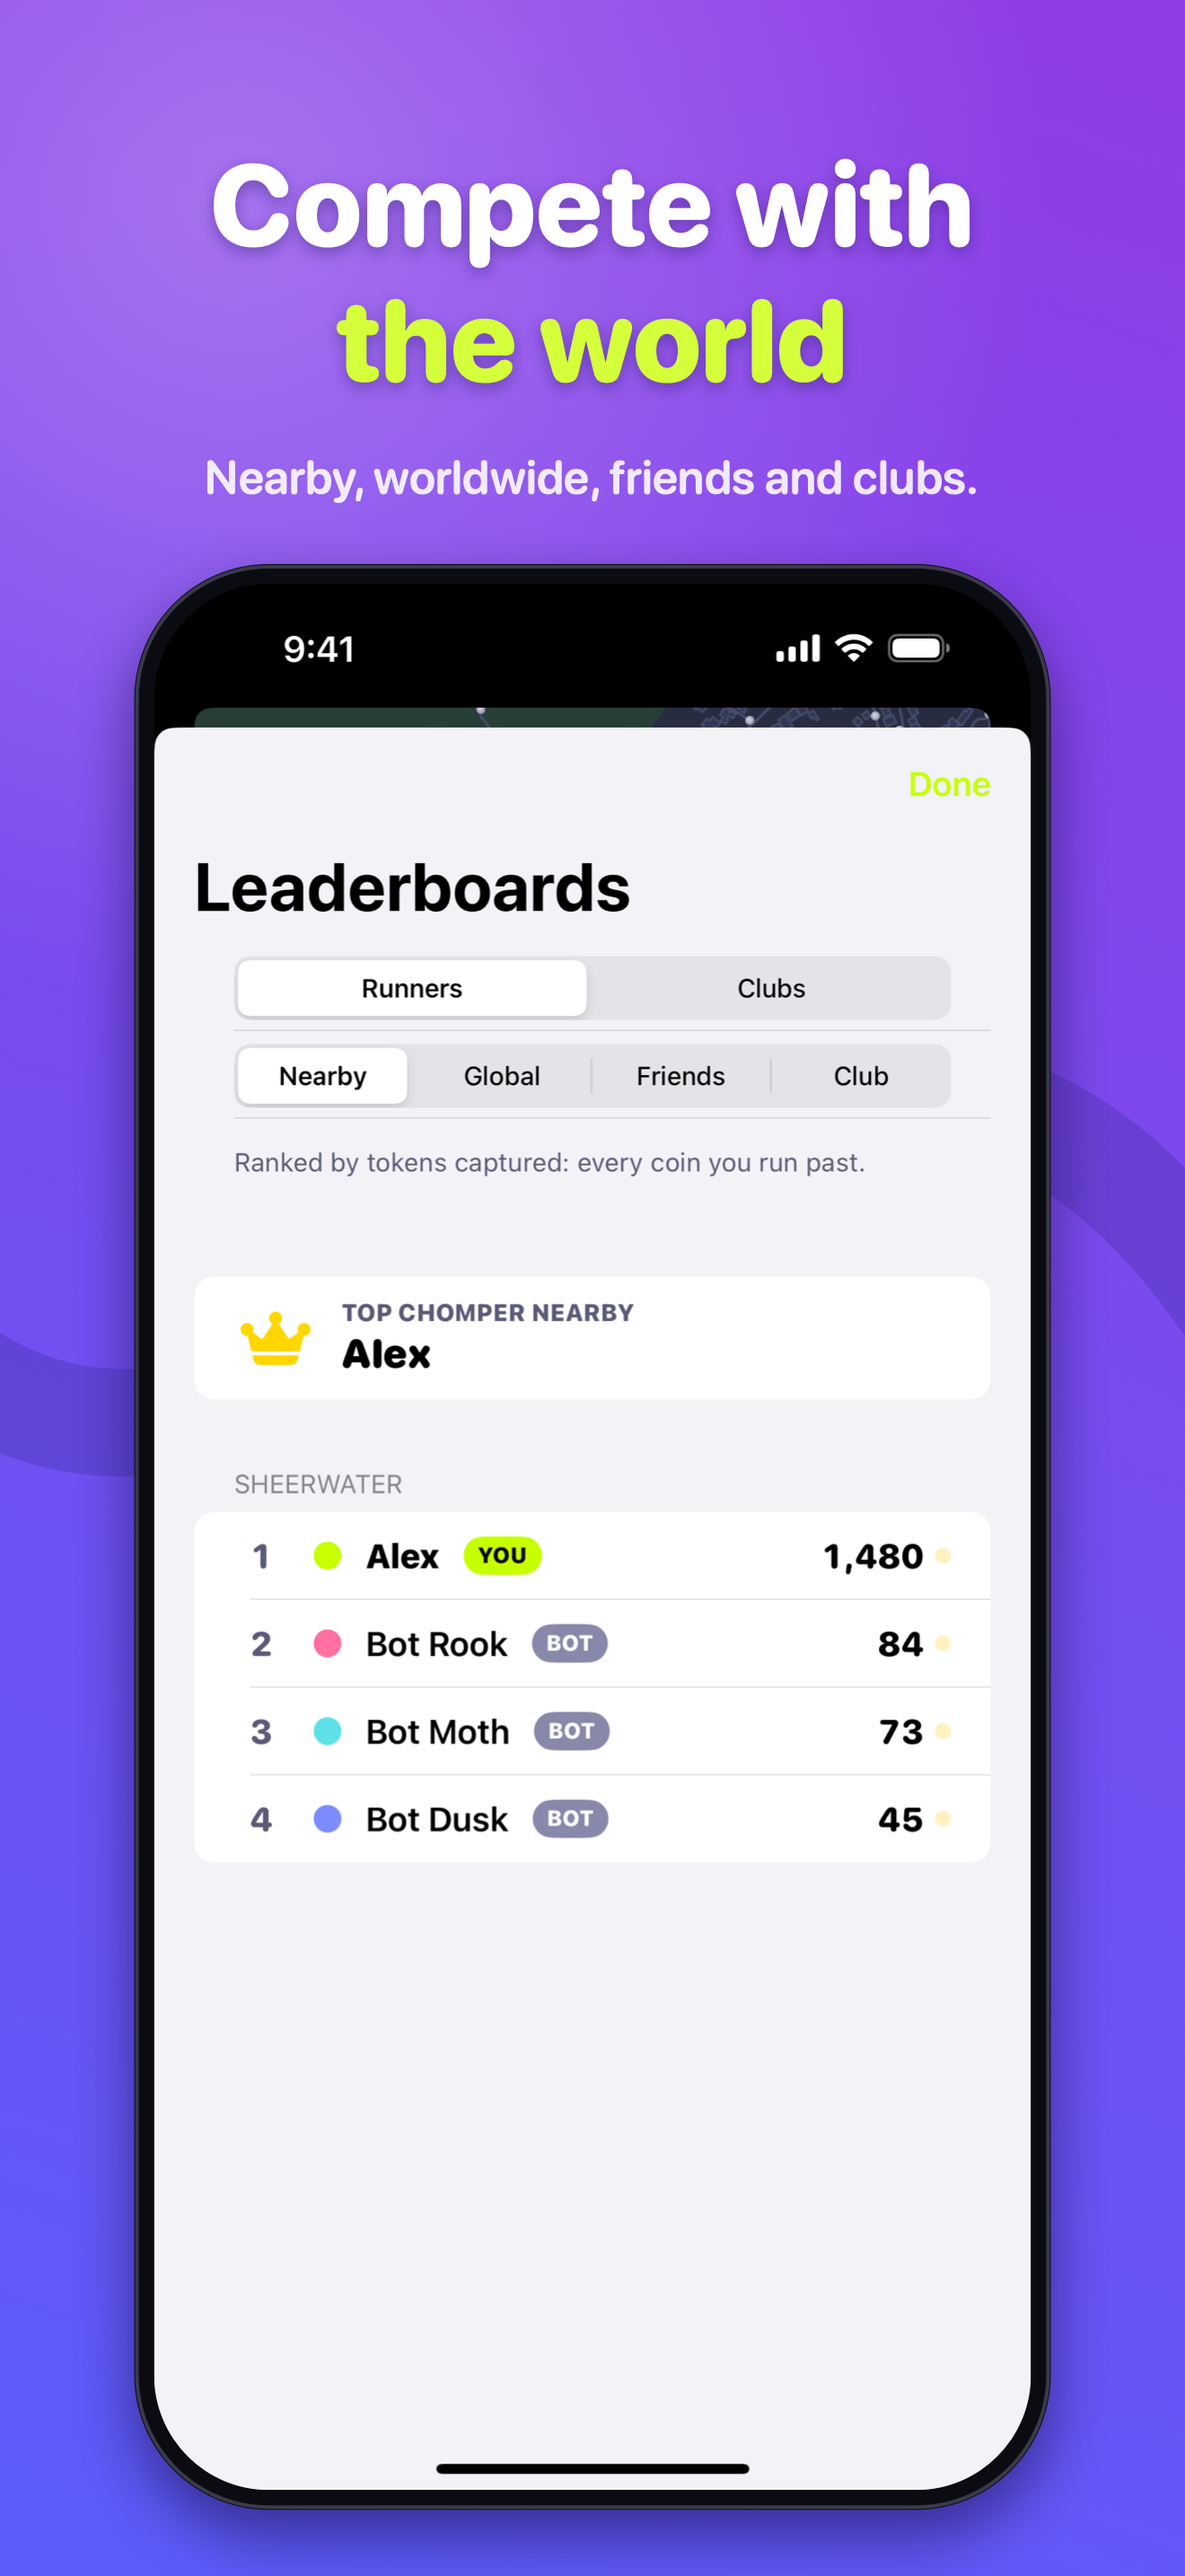
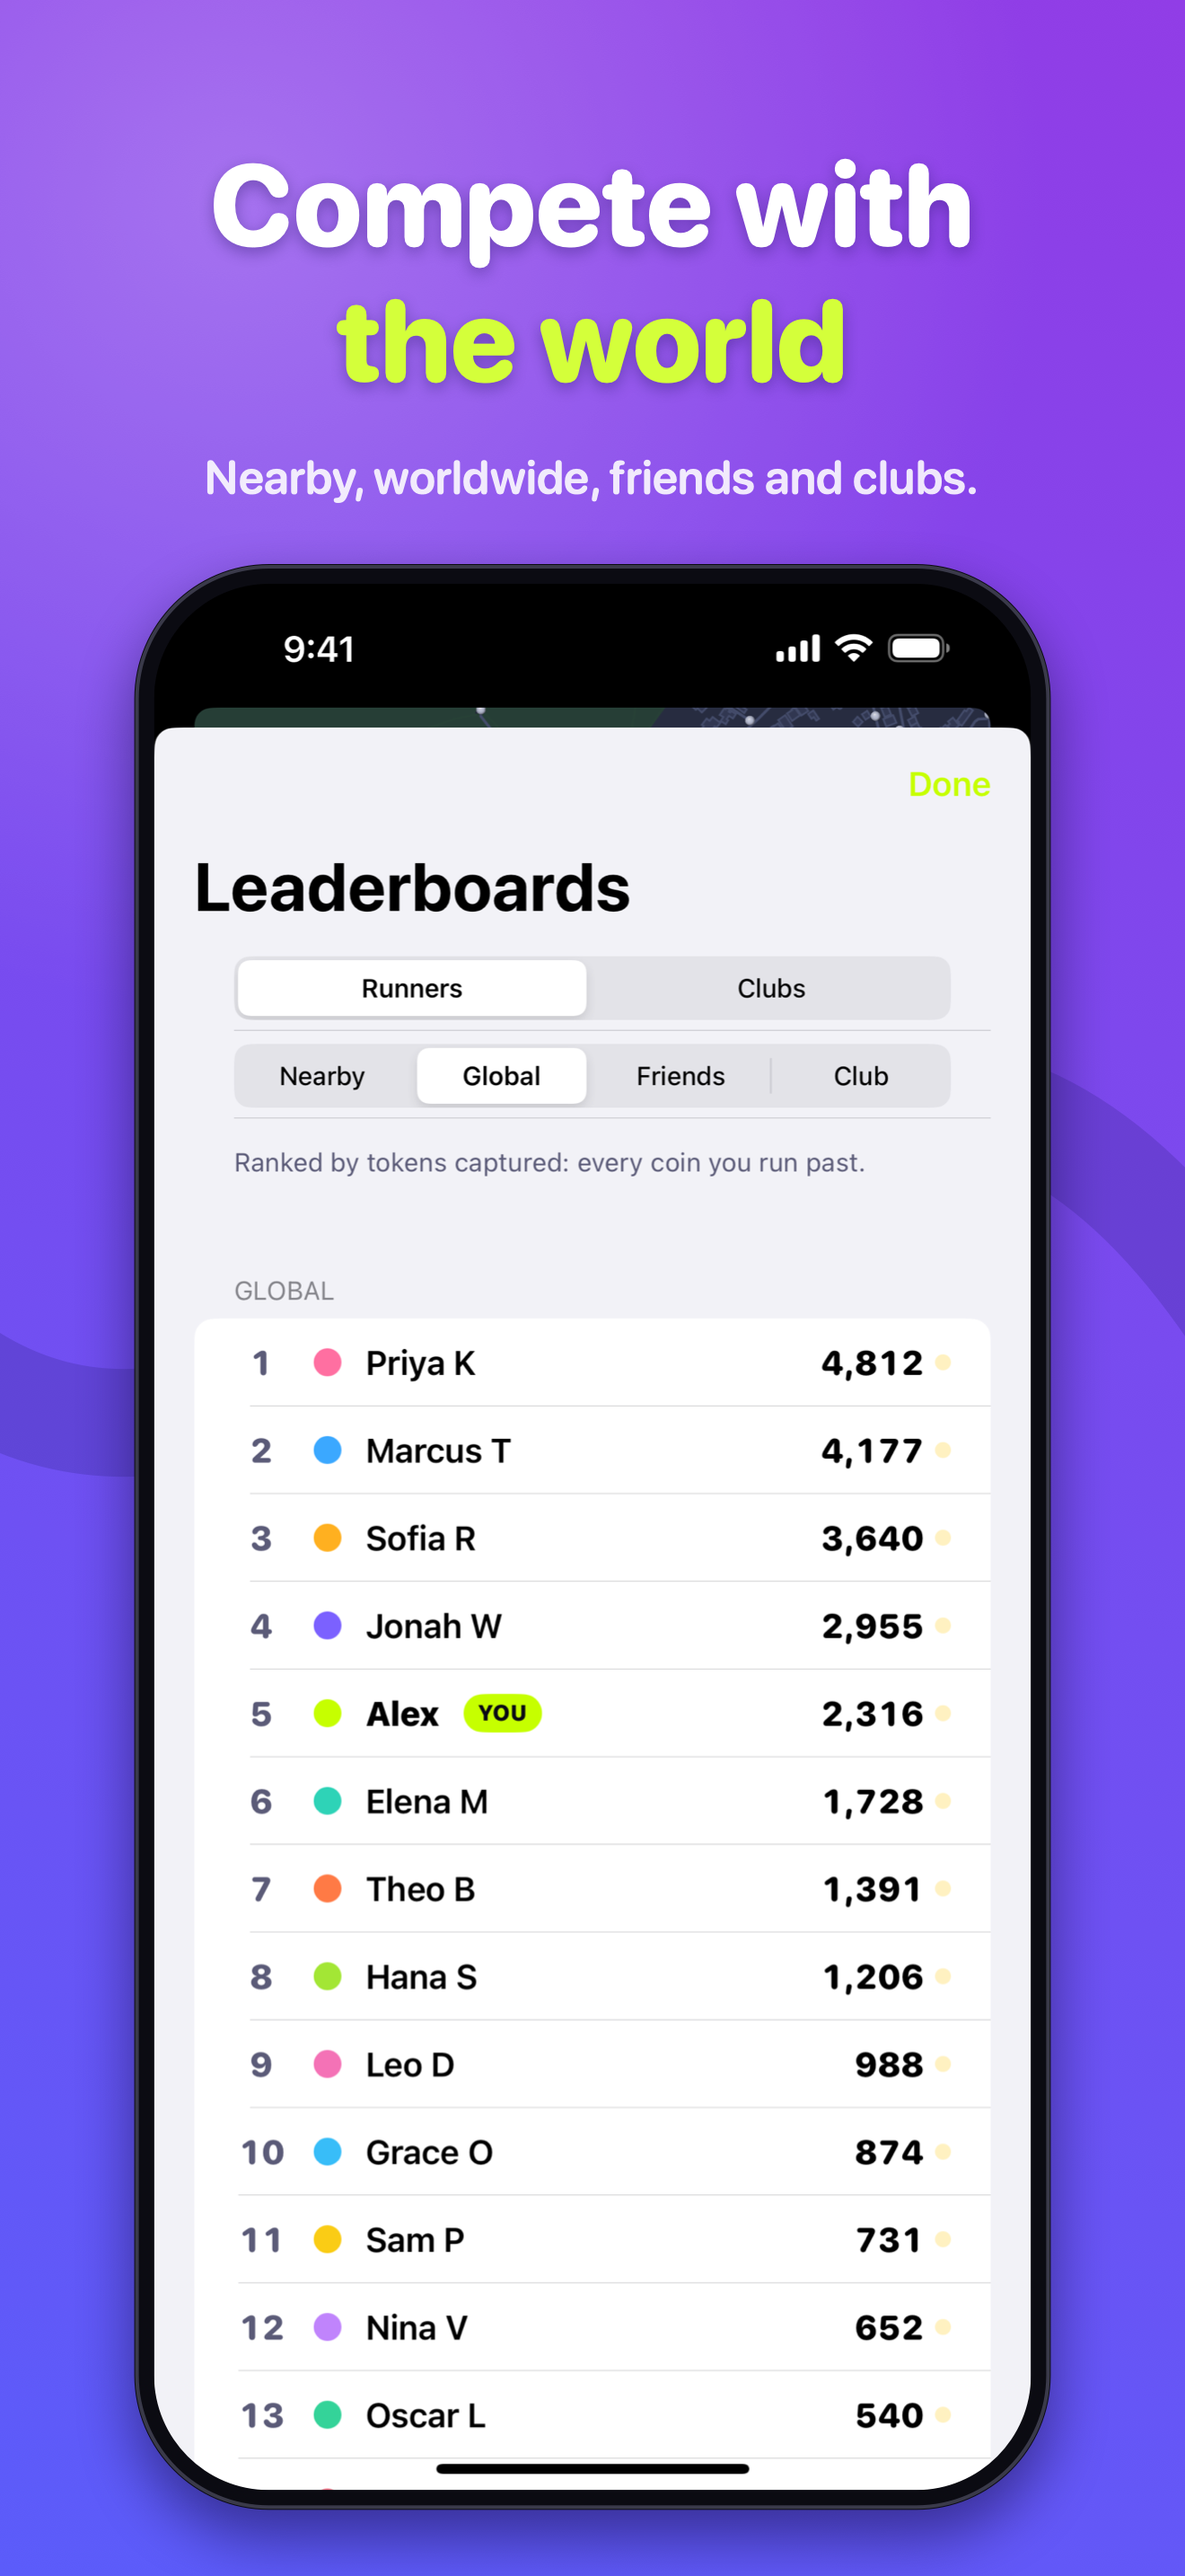
Screenshot leaderboard: full global board of made-up runners (-marketing only)
Claude-Session: https://claude.ai/code/session_01FMtq8DZr1tgLvzrY33xyjw

Changed region(s): [[0.1864, 0.4965, 0.528, 0.962], [0.6833, 0.5275, 0.8076, 0.962], [0.1864, 0.4034, 0.497, 0.4344]]

diff --git a/ios/Chomp/Social/SocialViews.swift b/ios/Chomp/Social/SocialViews.swift
@@ -11,7 +11,7 @@ struct LeaderboardView: View {
     @Environment(AppModel.self) private var model
     @Environment(\.dismiss) private var dismiss
     @State private var board: Board = .runners
-    @State private var scope: LeaderboardScope = .nearby
+    @State private var scope: LeaderboardScope = AppModel.marketing ? .global : .nearby
     @State private var clubScope: ClubScope = .nearby
     @State private var entries: [LeaderboardEntry] = []
     @State private var clubs: [ClubStanding] = []
@@ -67,7 +67,7 @@ struct LeaderboardView: View {
                 .accessibilityElement(children: .combine)
             }
         }
-        Section(model.placeName) {
+        Section(scope == .nearby ? model.placeName : scope.label) {
             ForEach(Array(sorted.enumerated()), id: \.element.id) { i, e in
                 Button { if !e.isMe && !e.isBot { selected = e } } label: { row(rank: i + 1, e) }
                     .buttonStyle(.plain)
@@ -121,10 +121,27 @@ struct LeaderboardView: View {
         .accessibilityLabel("Rank \(rank), \(e.name)\(e.isBot ? ", bot" : ""), \(e.tokens) tokens")
     }
 
+    /// Made-up rivals for App Store screenshots only (`-marketing`, debug builds).
+    private static func marketingEntries(me: PlayerProfile) -> [LeaderboardEntry] {
+        let rivals: [(String, String, Int)] = [
+            ("Priya K", "FF6FA1", 4_812), ("Marcus T", "3BA8FF", 4_177), ("Sofia R", "FFB020", 3_640),
+            ("Jonah W", "7B61FF", 2_955), ("Elena M", "2ED3B7", 1_728), ("Theo B", "FF7A45", 1_391),
+            ("Hana S", "A3E635", 1_206), ("Leo D", "F472B6", 988), ("Grace O", "38BDF8", 874),
+            ("Sam P", "FACC15", 731), ("Nina V", "C084FC", 652), ("Oscar L", "34D399", 540),
+            ("Maya J", "FB7185", 467),
+        ]
+        var list = rivals.enumerated().map { i, r in
+            LeaderboardEntry(id: "m\(i)", rank: 0, name: r.0, colorHex: r.1, isBot: false, isMe: false, tokens: r.2)
+        }
+        list.append(LeaderboardEntry(id: "me", rank: 0, name: me.name, colorHex: me.colorHex, isBot: false, isMe: true, tokens: 2_316))
+        return list
+    }
+
     private func load() async {
         error = nil
         switch board {
         case .runners:
+            if AppModel.marketing { entries = Self.marketingEntries(me: model.profile); return }
             do { entries = try await model.leaderboard(scope: scope) } catch {
                 entries = []
                 self.error = scope == .nearby ? error.localizedDescription
